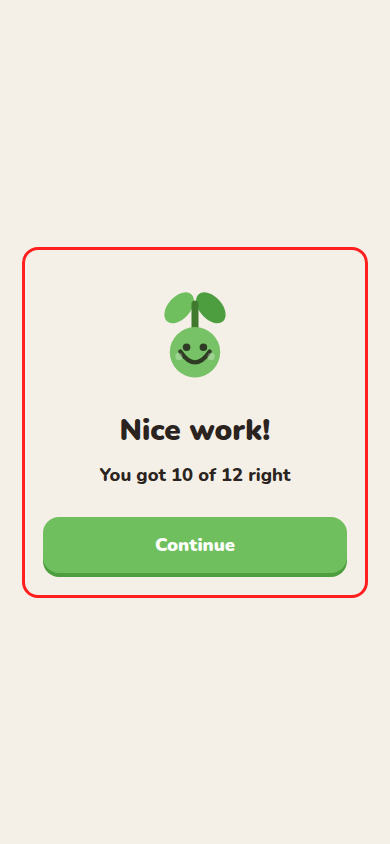
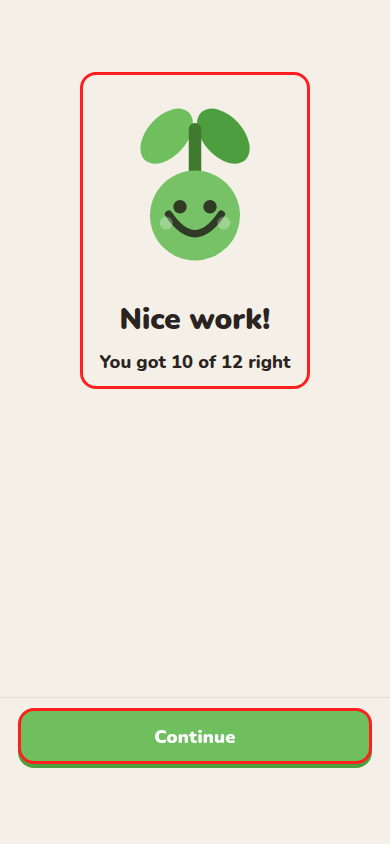
Dock the quiz finish button and enlarge Pip
Continue sits in the Check button's place. Pip uses the celebrating pose, larger, with the first-try line in the upper half.

diff --git a/src/styles/app.css b/src/styles/app.css
@@ -2545,24 +2545,26 @@ body.calm-motion *, body.calm-motion *::before, body.calm-motion *::after { anim
 .scan-finish {
   background: #F5F0E7;
   color: #2A2320;
-  min-height: 100dvh;
-  display: flex;
-  align-items: center;
-  justify-content: center;
-  padding: 28px 22px;
 }
-.scan-finish__card {
-  width: 100%;
+.scan-finish__stage {
+  flex: 1;
+  display: flex;
+  flex-direction: column;
+  align-items: center;
+  padding-top: 72px;
+}
+.scan-finish__copy {
   display: flex;
   flex-direction: column;
   align-items: center;
   text-align: center;
-  gap: 12px;
-  padding: 28px 18px 22px;
+  gap: 10px;
+  padding: 8px 12px 12px;
 }
-.scan-finish__pip { width: 112px; height: 112px; }
+.scan-finish__pip { width: 200px; height: 200px; }
+.scan-finish__pip svg { width: 100%; height: 100%; display: block; }
 .scan-finish__title {
-  margin: 8px 0 0;
+  margin: 6px 0 0;
   font-size: 1.85rem;
   font-weight: 900;
   color: #2A2320;
@@ -2572,17 +2574,6 @@ body.calm-motion *, body.calm-motion *::before, body.calm-motion *::after { anim
   font-size: 1.15rem;
   font-weight: 800;
   color: #2A2320;
-}
-.scan-finish__continue {
-  width: 100%;
-  margin-top: 18px;
-  min-height: 56px;
-  border-radius: 16px;
-  font-weight: 900;
-  font-size: 1.15rem;
-  color: #fff;
-  background: #6FBF5E;
-  box-shadow: 0 4px 0 #4D9E3F;
 }
 .review-card .scan__field-label,
 .scan--review .scan__field-label { color: rgba(42, 35, 32, 0.6); }

diff --git a/src/screens/ScanQuizScreen.tsx b/src/screens/ScanQuizScreen.tsx
@@ -37,15 +37,21 @@ export function ScanQuizFinish({
   mark?: boolean;
 }) {
   return (
-    <div className="screen scan-finish" data-scan-shot-ready="">
-      <div className={`scan-finish__card${mark ? ' scan-shot-mark' : ''}`}>
-        <PipPose pose="correct" className="scan-finish__pip" />
-        <h1 className="scan-finish__title">Nice work!</h1>
-        <p className="scan-finish__count">{firstTryLine(count)}</p>
-        <button type="button" className="scan-finish__continue" onClick={onContinue}>
+    <div className="screen lesson lesson--sot lesson--scan scan-finish" data-scan-shot-ready="">
+      <div className="scan-finish__stage">
+        <div className={`scan-finish__copy${mark ? ' scan-shot-mark' : ''}`}>
+          <div className="scan-finish__pip">
+            <PipPose pose="correct" />
+          </div>
+          <h1 className="scan-finish__title">Nice work!</h1>
+          <p className="scan-finish__count">{firstTryLine(count)}</p>
+        </div>
+      </div>
+      <footer className="lesson__foot">
+        <button type="button" className={`lesson__check${mark ? ' scan-shot-mark' : ''}`} onClick={onContinue}>
           Continue
         </button>
-      </div>
+      </footer>
     </div>
   );
 }
